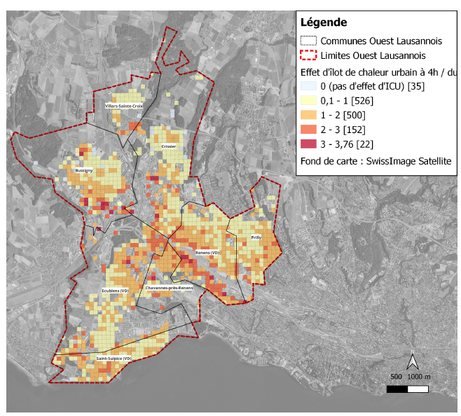
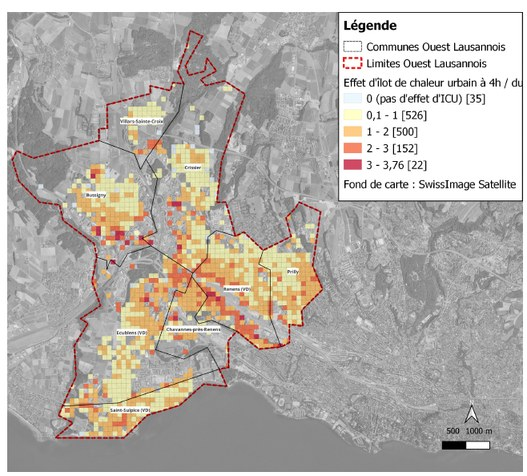
Images nettes et retrait d'une mention de collaboration
- Remplace les images en basse résolution (photo, géoportail, requalification, formes urbaines, Ouest lausannois)
- Les images des pages de projet ne sont plus agrandies au-delà de leur taille réelle
- Retire « En collaboration avec Marc-Edouard Schultheiss »

Claude-Session: https://claude.ai/code/session_01V9BzMApZ1gn3kiK3QoQ3hb

diff --git a/style.css b/style.css
@@ -321,7 +321,10 @@ main:not(:has(.theme:target)) .theme:first-of-type {
   gap: 20px;
 }
 
-.detail-images img { width: 100%; }
+.detail-images img {
+  width: auto;          /* jamais plus grande que sa taille réelle, pour rester nette */
+  max-width: 100%;
+}
 .detail-images a:hover img { opacity: .9; }
 
 /* ---------- Étiquettes (tags), cliquables ---------- */
